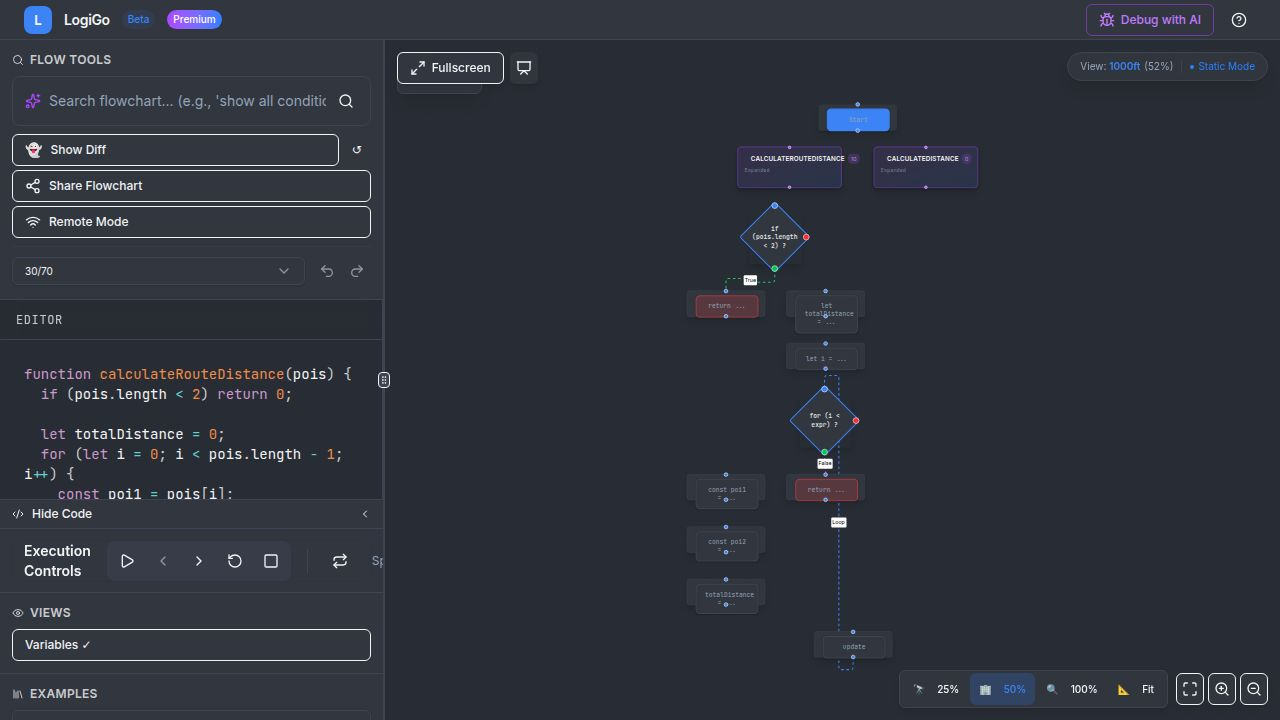
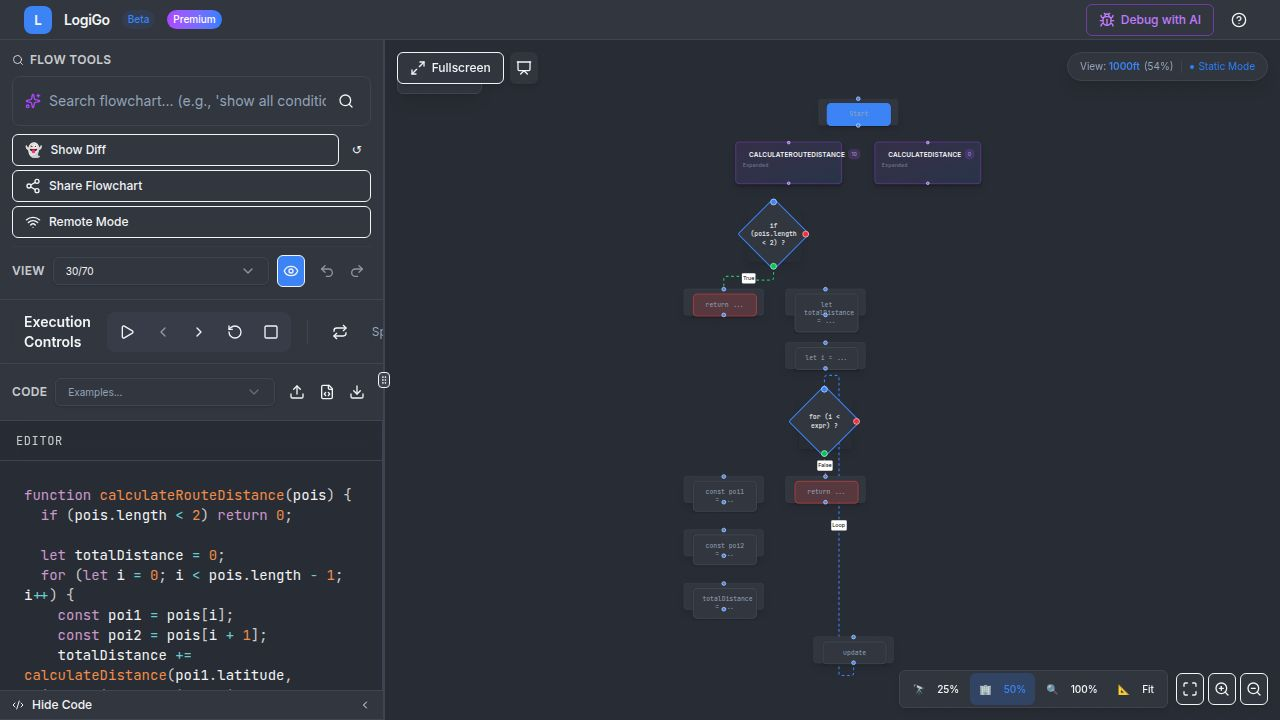
Rearrange interface to consolidate code examples and move editor to bottom
Consolidate Examples, Import/Export Code, and Export PNG/PDF into a compact row and move the collapsible code editor to the bottom of the sidebar in Workbench.tsx.

Replit-Commit-Author: Agent
Replit-Commit-Session-Id: 8eef41ac-1e56-439e-b814-5fc46b5c16e8
Replit-Commit-Checkpoint-Type: full_checkpoint
Replit-Commit-Event-Id: 19228574-9d57-4a8b-a631-84cf6c7af3cb
Replit-Commit-Screenshot-Url: https://storage.googleapis.com/screenshot-production-us-central1/c6286185-f7a0-44fb-b9ef-778ffbfe6e9c/8eef41ac-1e56-439e-b814-5fc46b5c16e8/Ks5yeA7
Replit-Helium-Checkpoint-Created: true

diff --git a/client/src/pages/Workbench.tsx b/client/src/pages/Workbench.tsx
@@ -2444,34 +2444,6 @@ export default function Workbench() {
                 </div>
               </div>
               
-              {/* Code Editor Section - Fully Collapsible */}
-              {showCodeEditor && !codeEditorCollapsed && (
-                <div className="border-b border-border flex-1 min-h-[200px] overflow-hidden">
-                  <div className="h-full">
-                    <CodeEditor 
-                      code={code} 
-                      onChange={handleCodeChange} 
-                      highlightedLine={highlightedLine}
-                    />
-                  </div>
-                </div>
-              )}
-              {showCodeEditor && (
-                <div className="border-b border-border flex-shrink-0">
-                  <button
-                    onClick={() => setCodeEditorCollapsed(!codeEditorCollapsed)}
-                    className="w-full px-3 py-1.5 flex items-center justify-between hover:bg-accent/50 transition-colors text-xs font-medium"
-                    data-testid="button-toggle-code-editor"
-                  >
-                    <div className="flex items-center gap-2">
-                      <Code2 className="w-3 h-3" />
-                      {codeEditorCollapsed ? 'Show Code' : 'Hide Code'}
-                    </div>
-                    {codeEditorCollapsed ? <ChevronRight className="w-3 h-3" /> : <ChevronLeft className="w-3 h-3" />}
-                  </button>
-                </div>
-              )}
-              
               {/* Execution Controls Section */}
               <div className="flex-shrink-0">
                 <ExecutionControls
@@ -2565,59 +2537,8 @@ export default function Workbench() {
                 </div>
               )}
               
-              {/* Examples Section */}
-              <div className="border-b border-border p-3 space-y-2 flex-shrink-0">
-                <h3 className="text-xs font-semibold flex items-center gap-1.5 text-foreground/80 uppercase tracking-wide">
-                  <Library className="w-3 h-3" />
-                  Examples
-                </h3>
-                <Select onValueChange={handleLoadExample}>
-                  <SelectTrigger className="w-full h-8 text-xs" data-testid="select-example">
-                    <SelectValue placeholder="Load an algorithm..." />
-                  </SelectTrigger>
-                  <SelectContent>
-                    <div className="px-2 py-1.5 text-xs font-semibold text-foreground/70">Sorting</div>
-                    {algorithmExamples.filter(e => e.category === 'sorting').map(example => (
-                      <SelectItem key={example.id} value={example.id} data-testid={`example-${example.id}`}>
-                        <div className="flex flex-col items-start">
-                          <span>{example.name}</span>
-                        </div>
-                      </SelectItem>
-                    ))}
-                    <div className="px-2 py-1.5 text-xs font-semibold text-foreground/70">Pathfinding</div>
-                    {algorithmExamples.filter(e => e.category === 'pathfinding').map(example => (
-                      <SelectItem key={example.id} value={example.id} data-testid={`example-${example.id}`}>
-                        <div className="flex flex-col items-start">
-                          <span>{example.name}</span>
-                        </div>
-                      </SelectItem>
-                    ))}
-                    <div className="px-2 py-1.5 text-xs font-semibold text-foreground/70">Games & Logic</div>
-                    {algorithmExamples.filter(e => e.category === 'other').map(example => (
-                      <SelectItem key={example.id} value={example.id} data-testid={`example-${example.id}`}>
-                        <div className="flex flex-col items-start">
-                          <span>{example.name}</span>
-                        </div>
-                      </SelectItem>
-                    ))}
-                    <div className="px-2 py-1.5 text-xs font-semibold text-foreground/70 border-t border-border mt-1 pt-2">Integration Guides</div>
-                    {algorithmExamples.filter(e => e.category === 'integration').map(example => (
-                      <SelectItem key={example.id} value={example.id} data-testid={`example-${example.id}`}>
-                        <div className="flex flex-col items-start">
-                          <span>{example.name}</span>
-                        </div>
-                      </SelectItem>
-                    ))}
-                  </SelectContent>
-                </Select>
-                <p className="text-[10px] text-foreground/60">
-                  Load sample algorithms with LogiGo checkpoints
-                </p>
-              </div>
-              
-              {/* Code Import/Export Section */}
-              <div className="border-b border-border p-3 space-y-2 flex-shrink-0">
-                <h3 className="text-xs font-semibold text-foreground/80 uppercase tracking-wide">Code</h3>
+              {/* Compact Code & Export Row */}
+              <div className="border-b border-border p-3 flex-shrink-0">
                 <input
                   type="file"
                   ref={fileInputRef}
@@ -2626,59 +2547,102 @@ export default function Workbench() {
                   className="hidden"
                   data-testid="input-import-file"
                 />
-                <div className="space-y-1">
-                  <Button
-                    variant="outline"
-                    size="sm"
-                    onClick={handleImportCode}
-                    className="w-full justify-start gap-2 h-7 text-xs cursor-pointer hover:bg-accent hover:text-accent-foreground"
-                    data-testid="button-import-code"
-                  >
-                    <Upload className="w-3 h-3" />
-                    Import Code
-                  </Button>
-                  <Button
-                    variant="outline"
-                    size="sm"
-                    onClick={handleExportCode}
-                    disabled={!code.trim()}
-                    className="w-full justify-start gap-2 h-7 text-xs cursor-pointer hover:bg-accent hover:text-accent-foreground"
-                    data-testid="button-export-code"
-                  >
-                    <FileCode className="w-3 h-3" />
-                    Export Code
-                  </Button>
+                <div className="flex items-center gap-2">
+                  <span className="text-xs font-semibold text-foreground/80 uppercase tracking-wide whitespace-nowrap">Code</span>
+                  <Select onValueChange={handleLoadExample}>
+                    <SelectTrigger className="h-7 text-[10px] flex-1" data-testid="select-example">
+                      <SelectValue placeholder="Examples..." />
+                    </SelectTrigger>
+                    <SelectContent>
+                      <div className="px-2 py-1.5 text-xs font-semibold text-foreground/70">Sorting</div>
+                      {algorithmExamples.filter(e => e.category === 'sorting').map(example => (
+                        <SelectItem key={example.id} value={example.id} data-testid={`example-${example.id}`}>
+                          {example.name}
+                        </SelectItem>
+                      ))}
+                      <div className="px-2 py-1.5 text-xs font-semibold text-foreground/70">Pathfinding</div>
+                      {algorithmExamples.filter(e => e.category === 'pathfinding').map(example => (
+                        <SelectItem key={example.id} value={example.id} data-testid={`example-${example.id}`}>
+                          {example.name}
+                        </SelectItem>
+                      ))}
+                      <div className="px-2 py-1.5 text-xs font-semibold text-foreground/70">Games & Logic</div>
+                      {algorithmExamples.filter(e => e.category === 'other').map(example => (
+                        <SelectItem key={example.id} value={example.id} data-testid={`example-${example.id}`}>
+                          {example.name}
+                        </SelectItem>
+                      ))}
+                      <div className="px-2 py-1.5 text-xs font-semibold text-foreground/70 border-t border-border mt-1 pt-2">Integration</div>
+                      {algorithmExamples.filter(e => e.category === 'integration').map(example => (
+                        <SelectItem key={example.id} value={example.id} data-testid={`example-${example.id}`}>
+                          {example.name}
+                        </SelectItem>
+                      ))}
+                    </SelectContent>
+                  </Select>
+                  <div className="flex gap-0.5">
+                    <Button
+                      variant="ghost"
+                      size="sm"
+                      onClick={handleImportCode}
+                      className="h-7 w-7 p-0"
+                      title="Import Code (Ctrl+O)"
+                      data-testid="button-import-code"
+                    >
+                      <Upload className="w-3.5 h-3.5" />
+                    </Button>
+                    <Button
+                      variant="ghost"
+                      size="sm"
+                      onClick={handleExportCode}
+                      disabled={!code.trim()}
+                      className="h-7 w-7 p-0"
+                      title="Export Code (Ctrl+S)"
+                      data-testid="button-export-code"
+                    >
+                      <FileCode className="w-3.5 h-3.5" />
+                    </Button>
+                    <Button
+                      variant="ghost"
+                      size="sm"
+                      onClick={handleExportPNG}
+                      className="h-7 w-7 p-0"
+                      title="Export as PNG"
+                      data-testid="button-export-png"
+                    >
+                      <Download className="w-3.5 h-3.5" />
+                    </Button>
+                  </div>
                 </div>
               </div>
               
-              {/* Export Section */}
-              <div className="border-b border-border p-3 space-y-2 flex-shrink-0">
-                <h3 className="text-xs font-semibold text-foreground/80 uppercase tracking-wide">Export</h3>
-                <div className="space-y-1">
-                  <Button
-                    variant="outline"
-                    size="sm"
-                    onClick={handleExportPNG}
-                    className="w-full justify-start gap-2 h-7 text-xs cursor-pointer hover:bg-accent hover:text-accent-foreground"
-                    data-testid="button-export-png"
-                  >
-                    <Download className="w-3 h-3" />
-                    PNG
-                  </Button>
-                  {features.hasFeature('ghostDiff') && (
-                    <Button
-                      variant="outline"
-                      size="sm"
-                      onClick={handleExportPDF}
-                      className="w-full justify-start gap-2 h-7 text-xs cursor-pointer hover:bg-accent hover:text-accent-foreground"
-                      data-testid="button-export-pdf"
-                    >
-                      <FileText className="w-3 h-3" />
-                      PDF
-                    </Button>
-                  )}
+              {/* Code Editor Section - At Bottom */}
+              {showCodeEditor && !codeEditorCollapsed && (
+                <div className="border-b border-border flex-1 min-h-[200px] overflow-hidden">
+                  <div className="h-full">
+                    <CodeEditor 
+                      code={code} 
+                      onChange={handleCodeChange} 
+                      highlightedLine={highlightedLine}
+                    />
+                  </div>
                 </div>
-              </div>
+              )}
+              {showCodeEditor && (
+                <div className="border-b border-border flex-shrink-0">
+                  <button
+                    onClick={() => setCodeEditorCollapsed(!codeEditorCollapsed)}
+                    className="w-full px-3 py-1.5 flex items-center justify-between hover:bg-accent/50 transition-colors text-xs font-medium"
+                    data-testid="button-toggle-code-editor"
+                  >
+                    <div className="flex items-center gap-2">
+                      <Code2 className="w-3 h-3" />
+                      {codeEditorCollapsed ? 'Show Code' : 'Hide Code'}
+                    </div>
+                    {codeEditorCollapsed ? <ChevronRight className="w-3 h-3" /> : <ChevronLeft className="w-3 h-3" />}
+                  </button>
+                </div>
+              )}
               
             </div>
           </ResizablePanel>
